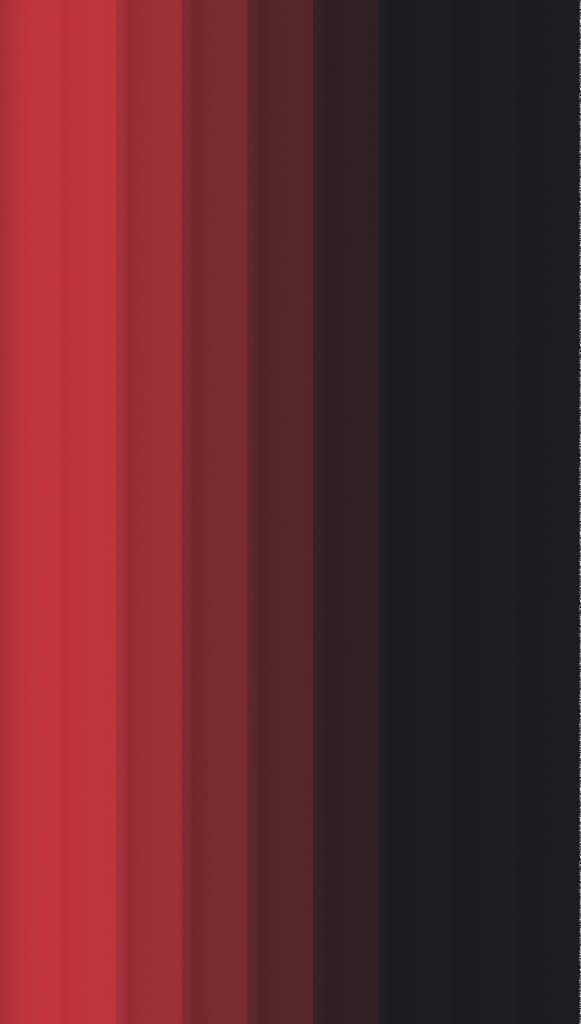
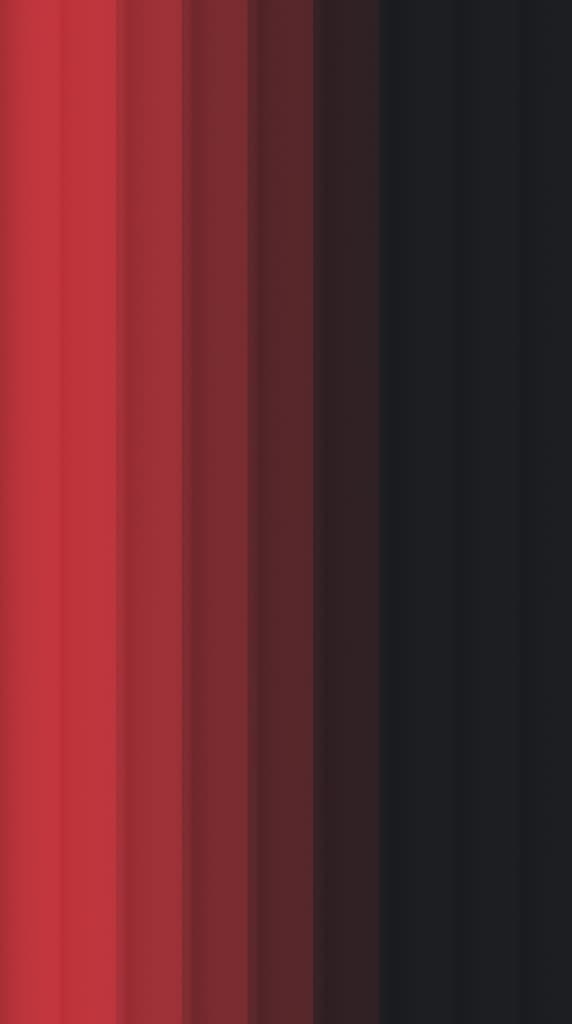
hero style

diff --git a/src/css/hero.css b/src/css/hero.css
@@ -1,5 +1,6 @@
 .section-hero {
   background-image: url('../img/Hero/bg_mob.png');
+  /* background-image: url('../img/Hero/bg_hero.png'); */
   background-repeat: no-repeat;
   background-position: center center;
   background-size: cover;
@@ -14,7 +15,11 @@
   min-width: 320px;
   padding: 0 16px;
 }
-
+/* @media (min-resolution: 192dpi) {
+  .section-hero {
+    background-image: url('../img/Hero/bg_hero2x.png');
+  }
+} */
 @media (min-resolution: 192dpi) {
   .section-hero {
     background-image: url('../img/Hero/bg_mob2x.png');
